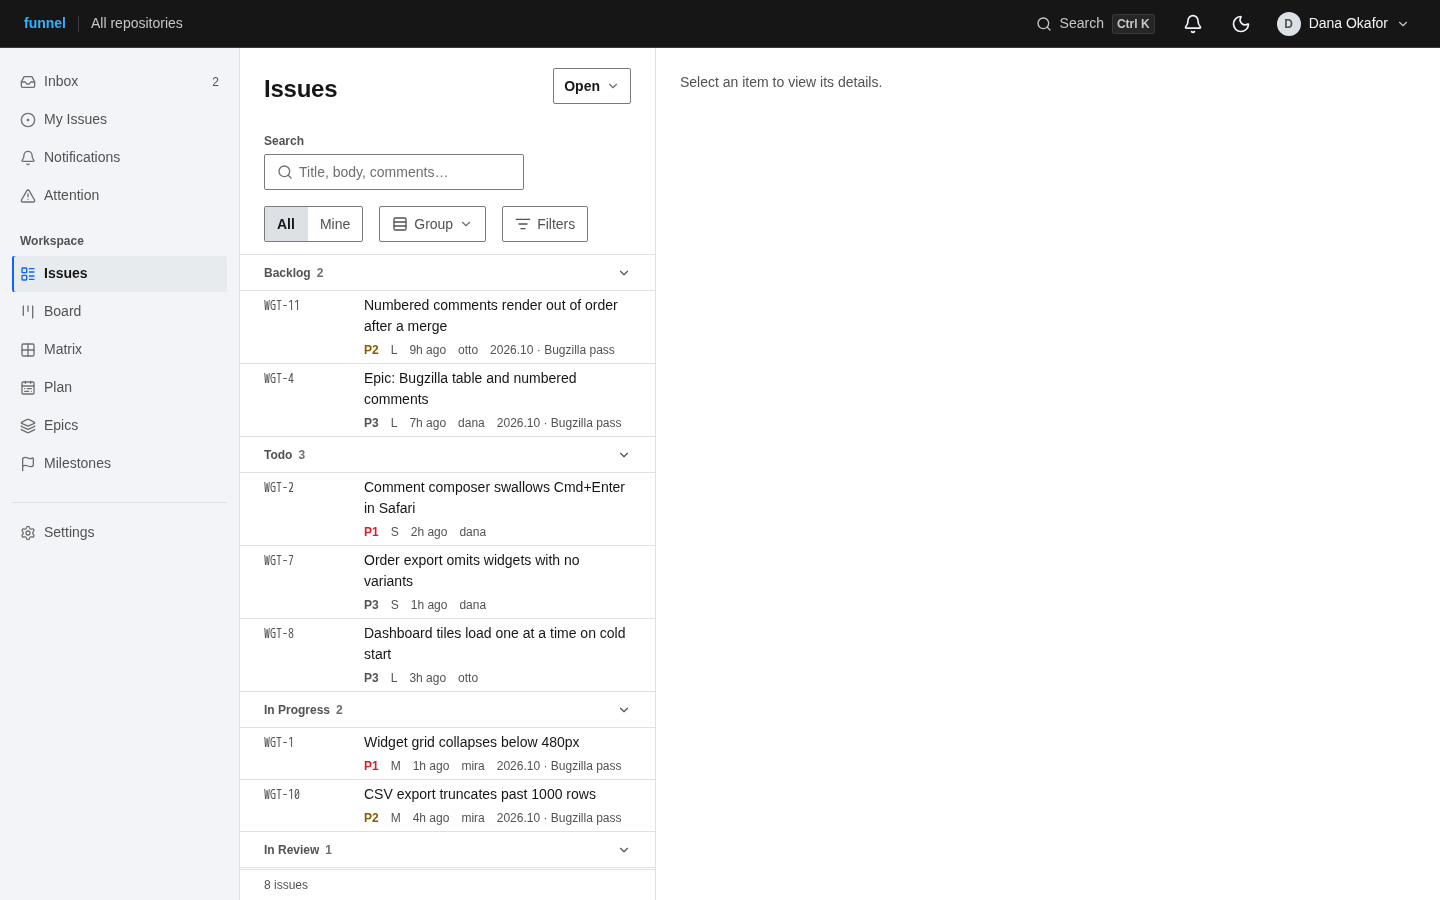
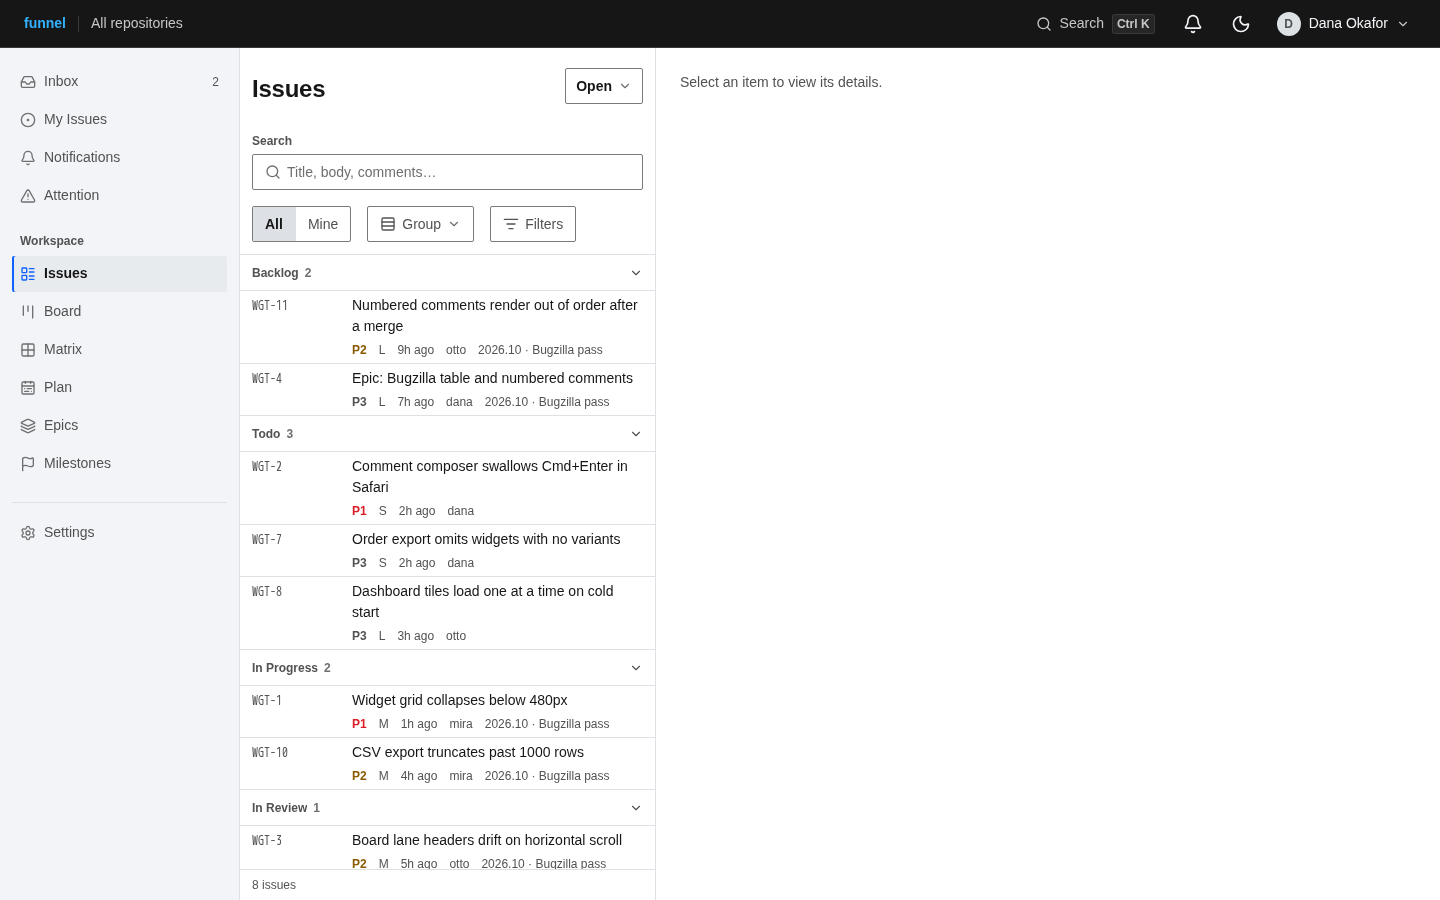
fix(design): use the feed gutter for issue chrome

diff --git a/src/routes/(app)/inbox/+layout.svelte b/src/routes/(app)/inbox/+layout.svelte
@@ -151,9 +151,10 @@
 				title="Inbox"
 				count={summary}
 				level={selectedIssue !== null || selectedSubmissionId !== null ? 2 : 1}
+				class="px-3"
 			/>
 
-			<Toolbar>
+			<Toolbar class="px-3">
 				<div class="min-w-0 flex-1">
 					<FeedSearch />
 				</div>
@@ -163,7 +164,7 @@
 			</Toolbar>
 
 			{#if formError}
-				<div class="border-b border-border-subtle px-(--layout-page-padding) py-2">
+				<div class="border-b border-border-subtle px-3 py-2">
 					<InlineStatus tone="error" message={formError} />
 				</div>
 			{/if}
@@ -172,7 +173,7 @@
 				<EmptyState
 					title="Inbox zero"
 					description="Nothing staged or untriaged."
-					class="flex-1"
+					class="flex-1 px-3"
 				>
 					{#snippet action()}
 						<Button variant="outline" size="sm" href="/issues">View all issues</Button>
@@ -182,7 +183,7 @@
 				<div class="min-h-[30svh] flex-1 overflow-y-auto" bind:this={scroller}>
 					{#if submissions.length > 0}
 						<section aria-labelledby="inbox-submissions-heading">
-							<div class="flex items-center justify-between gap-2 px-[var(--layout-page-padding)] pb-1 pt-3">
+							<div class="flex items-center justify-between gap-2 px-3 pb-1 pt-3">
 								<h2
 									id="inbox-submissions-heading"
 									class="text-caption font-semibold text-fg-secondary"
@@ -195,7 +196,7 @@
 							</div>
 
 							<div
-								class="flex h-(--size-row-compact) items-center gap-3 border-y border-border-subtle bg-surface-2 px-[var(--layout-page-padding)] text-caption font-semibold text-fg"
+								class="flex h-(--size-row-compact) items-center gap-3 border-y border-border-subtle bg-surface-2 px-3 text-caption font-semibold text-fg"
 								aria-hidden="true"
 							>
 								<span class="w-24 shrink-0">Source</span>
@@ -217,7 +218,7 @@
 							class="[container-type:inline-size]"
 							aria-labelledby="inbox-issues-heading"
 						>
-							<div class="flex items-center justify-between gap-2 px-[var(--layout-page-padding)] pb-1 pt-3">
+							<div class="flex items-center justify-between gap-2 px-3 pb-1 pt-3">
 								<h2
 									id="inbox-issues-heading"
 									class="text-caption font-semibold text-fg-secondary"
@@ -264,11 +265,11 @@
 					{/if}
 
 					{#if inboxFeed.loading}
-						<div class="border-t border-border-subtle px-[var(--layout-page-padding)] py-2">
+						<div class="border-t border-border-subtle px-3 py-2">
 							<InlineStatus tone="info" message="Loading more…" />
 						</div>
 					{:else if inboxFeed.error !== null}
-						<div class="border-t border-border-subtle px-[var(--layout-page-padding)] py-2">
+						<div class="border-t border-border-subtle px-3 py-2">
 							<InlineStatus tone="error" message={inboxFeed.error}>
 								{#snippet action()}
 									<Button

diff --git a/src/lib/components/issue/IssueList.svelte b/src/lib/components/issue/IssueList.svelte
@@ -173,7 +173,7 @@
 	{#if loading}
 		{@render skeleton()}
 	{:else if failed}
-		<div class="min-h-0 flex-1 px-[var(--layout-page-padding)] py-4">
+		<div class="min-h-0 flex-1 px-3 py-4">
 			<InlineStatus
 				tone="error"
 				message={feed?.error ?? 'Could not load issues.'}
@@ -213,7 +213,7 @@
 		</div>
 
 		{#if feed && feed.error !== null}
-			<div class="shrink-0 border-t border-border-subtle px-[var(--layout-page-padding)] py-2">
+			<div class="shrink-0 border-t border-border-subtle px-3 py-2">
 				<InlineStatus tone="error" message={feed.error} action={retryMore} />
 			</div>
 		{:else if feed && feed.loading}
@@ -225,7 +225,7 @@
 
 	{#if !loading && !failed}
 		<footer
-			class="flex shrink-0 flex-wrap items-center gap-x-2 gap-y-1 border-t border-border-subtle px-[var(--layout-page-padding)] py-1.5 text-caption text-fg-secondary"
+			class="flex shrink-0 flex-wrap items-center gap-x-2 gap-y-1 border-t border-border-subtle px-3 py-1.5 text-caption text-fg-secondary"
 		>
 			<span class="tabular-nums">{count.toLocaleString()} {count === 1 ? 'issue' : 'issues'}</span>
 			{#if feed && shown < count}
@@ -247,7 +247,7 @@
 		min-height: var(--size-row-comfortable);
 		column-gap: var(--space-3);
 		row-gap: var(--space-1);
-		padding: var(--space-1) var(--layout-page-padding);
+		padding: var(--space-1) var(--space-3);
 		border-bottom: 1px solid var(--color-border-subtle);
 	}
 

diff --git a/src/lib/components/filter/FeedSearch.svelte b/src/lib/components/filter/FeedSearch.svelte
@@ -3,6 +3,7 @@
 	import { goto } from '$app/navigation';
 	import { page } from '$app/state';
 	import * as InputGroup from '#lib/components/ui/input-group';
+	import { cn } from '#lib/utils';
 	import { buildFilterUrl, parseFilterParams } from '#lib/url-filter';
 	import SearchIcon from '@lucide/svelte/icons/search';
 	import XIcon from '@lucide/svelte/icons/x';
@@ -17,6 +18,13 @@
 	 * only when there is a query, so the browser's own search affordance is
 	 * suppressed rather than doubled.
 	 */
+	interface Props {
+		/** Width override for the containing toolbar. */
+		class?: string;
+	}
+
+	let { class: className }: Props = $props();
+
 	const filter = $derived(parseFilterParams(page.url.searchParams));
 
 	let search = $state(untrack(() => filter.search));
@@ -52,7 +60,12 @@
 	}
 </script>
 
-<div class="flex w-full min-w-0 flex-col gap-1 sm:w-[var(--layout-search-field)] sm:flex-none">
+<div
+	class={cn(
+		'flex w-full min-w-0 flex-col gap-1 sm:w-[var(--layout-search-field)] sm:flex-none',
+		className
+	)}
+>
 	<label for="issue-search" class="text-caption font-semibold text-fg-secondary">Search</label>
 	<InputGroup.Root>
 		<InputGroup.Addon align="inline-start" class="pl-3 text-fg-muted">

diff --git a/src/lib/components/shell/PageHeader.svelte b/src/lib/components/shell/PageHeader.svelte
@@ -1,5 +1,6 @@
 <script lang="ts">
 	import type { Snippet } from "svelte";
+	import { cn } from "#lib/utils";
 
 	interface Props {
 		title: string;
@@ -10,13 +11,18 @@
 		level?: 1 | 2;
 		/** Primary and secondary page actions, right-aligned on the title baseline. */
 		actions?: Snippet;
+		/** Override the page gutter, e.g. a narrower split-view feed column. */
+		class?: string;
 	}
 
-	let { title, description, count, level = 1, actions }: Props = $props();
+	let { title, description, count, level = 1, actions, class: className }: Props = $props();
 </script>
 
 <header
-	class="flex flex-wrap items-end justify-between gap-x-4 gap-y-3 px-[var(--layout-page-padding)] pb-4 pt-5"
+	class={cn(
+		"flex flex-wrap items-end justify-between gap-x-4 gap-y-3 px-[var(--layout-page-padding)] pb-4 pt-5",
+		className
+	)}
 >
 	<div class="min-w-0">
 		<div class="flex flex-wrap items-baseline gap-x-2 gap-y-1">

diff --git a/src/lib/components/shell/Toolbar.svelte b/src/lib/components/shell/Toolbar.svelte
@@ -1,17 +1,23 @@
 <script lang="ts">
 	import type { Snippet } from "svelte";
+	import { cn } from "#lib/utils";
 
 	interface Props {
 		children: Snippet;
 		/** Trailing controls that should sit on the same baseline. */
 		actions?: Snippet;
+		/** Override the page gutter, e.g. a narrower split-view feed column. */
+		class?: string;
 	}
 
-	let { children, actions }: Props = $props();
+	let { children, actions, class: className }: Props = $props();
 </script>
 
 <div
-	class="flex flex-wrap items-end gap-4 border-b border-border-subtle px-[var(--layout-page-padding)] py-3"
+	class={cn(
+		"flex flex-wrap items-end gap-4 border-b border-border-subtle px-[var(--layout-page-padding)] py-3",
+		className
+	)}
 >
 	<div class="flex min-w-0 flex-1 flex-wrap items-end gap-4">
 		{@render children()}

diff --git a/src/lib/components/inbox/SubmissionRow.svelte b/src/lib/components/inbox/SubmissionRow.svelte
@@ -27,7 +27,7 @@
 
 <div
 	class={cn(
-		'group/row flex min-h-(--size-row-compact) cursor-pointer select-none items-center gap-3 border-b border-border-subtle px-[var(--layout-page-padding)] text-body last:border-b-0',
+		'group/row flex min-h-(--size-row-compact) cursor-pointer select-none items-center gap-3 border-b border-border-subtle px-3 text-body last:border-b-0',
 		'hover:bg-surface-2 focus-visible:outline-2 focus-visible:outline-offset-[-2px] focus-visible:outline-ring',
 		selected && 'is-selected-row'
 	)}

diff --git a/src/lib/components/issue/IssueGroupHeader.svelte b/src/lib/components/issue/IssueGroupHeader.svelte
@@ -15,7 +15,7 @@
 
 <button
 	type="button"
-	class="issue-group-header flex h-(--size-row-compact) w-full items-center gap-1.5 border-b border-border-subtle bg-canvas px-[var(--layout-page-padding)] text-left text-caption font-semibold text-fg-secondary"
+	class="issue-group-header flex h-(--size-row-compact) w-full items-center gap-1.5 border-b border-border-subtle bg-canvas px-3 text-left text-caption font-semibold text-fg-secondary"
 	aria-expanded={!collapsed}
 	onclick={ontoggle}
 >

diff --git a/src/routes/(app)/issues/+layout.svelte b/src/routes/(app)/issues/+layout.svelte
@@ -141,6 +141,7 @@
 				title={mine ? 'My Issues' : 'Issues'}
 				description={scopeLine || undefined}
 				level={selected ? 2 : 1}
+				class="px-3"
 			>
 				{#snippet actions()}
 					<DropdownMenu.Root>
@@ -176,8 +177,8 @@
 				{/snippet}
 			</PageHeader>
 
-			<Toolbar>
-				<FeedSearch />
+			<Toolbar class="px-3">
+				<FeedSearch class="sm:w-full" />
 				<ViewSegment />
 				<div class="max-sm:hidden">
 					<GroupByControl

diff --git a/src/lib/components/issue/IssueRow.svelte b/src/lib/components/issue/IssueRow.svelte
@@ -198,7 +198,7 @@
 		min-height: var(--size-row-comfortable);
 		column-gap: var(--space-3);
 		row-gap: var(--space-1);
-		padding: var(--space-1) var(--layout-page-padding);
+		padding: var(--space-1) var(--space-3);
 	}
 
 	.issue-row > .issue-ref {

diff --git a/docs/plans/2026-11-02-t128n-polish.md b/docs/plans/2026-11-02-t128n-polish.md
@@ -256,8 +256,9 @@ worktree; the implementation followed the repo design docs plus the current
 - Appearance theme options use 8px spacing while staying grouped by spacing
   alone.
 
-- The Issues and Inbox streams now use `--layout-page-padding` for group
-  headers, rows, loading/error strips, and footers, so the page title, search,
-  filters, group labels, references, and footer share one left edge at every
-  breakpoint. Group disclosure moved to the trailing edge so the label itself
-  sits on that edge.
+- The Issues and Inbox feed panes use the tighter list gutter (`--space-3`) for
+  the page header and toolbar as well as group headers, rows, loading/error
+  strips, and footers. The page title, search, filters, group labels,
+  references, and footer share one left edge at every breakpoint; full-width
+  pages keep the page padding. Group disclosure moved to the trailing edge so
+  the label itself sits on that edge.

diff --git a/docs/DESIGN.md b/docs/DESIGN.md
@@ -98,8 +98,9 @@ controls and 2.75rem rows. Below 768px, controls and rows are at least 2.75rem.
 - The issue stream is a two-line list: fixed reference slot, title, then one
   metadata line (status, priority, size, updated, assignee, milestone/labels).
   It has no column header and no zebra fill; 1px `border-subtle` separators.
-- List chrome shares the page's horizontal inset: the page header, toolbar,
-  group labels, references, empty/error states, and footer all start on
+- Split-view feed panes use a tighter horizontal gutter than full-width pages:
+  the page header, toolbar, group labels, references, empty/error states, and
+  footer share one 0.75rem leading edge. Full-width pages keep
   `--layout-page-padding`. The reference and title are internal columns of the
   row, not a second page inset.
 - Comparison tables keep a 2.25rem header on `surface-2`, 0.875/600, with
